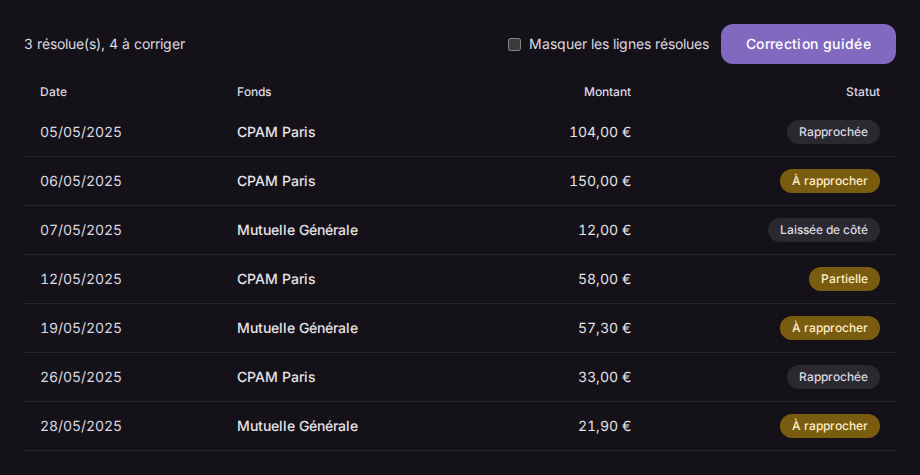
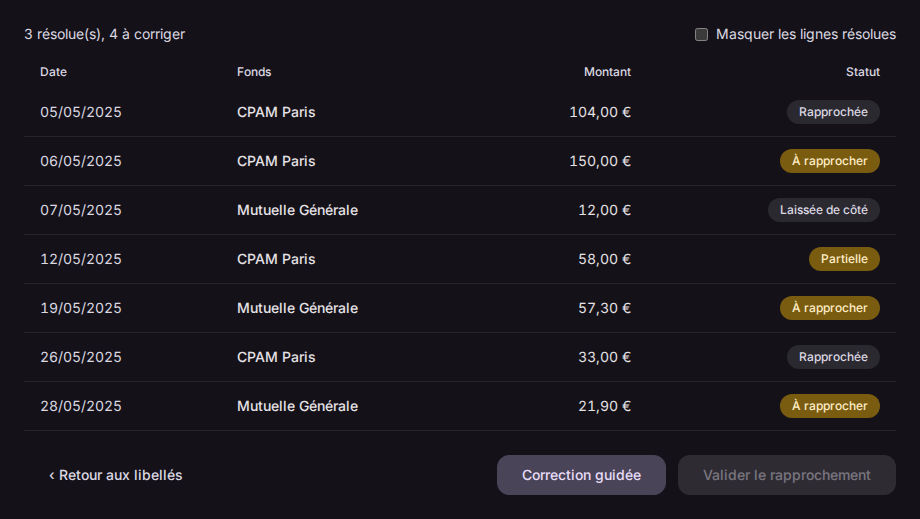
fix(bank): close spec-checker gaps; wizard entry to pinned footer

diff --git a/src/features/bank-statement-match/ui/CandidateList.tsx b/src/features/bank-statement-match/ui/CandidateList.tsx
@@ -1,7 +1,5 @@
-import { useState } from "react";
 import { useTranslation } from "react-i18next";
 import type { BankStatementCandidate, BankStatementLine } from "@/bindings";
-import { Button } from "@/ui/components/button";
 import { useFormatters } from "@/ui/format/formatters";
 import { coveredAmount } from "../shared/candidateSelection";
 
@@ -77,37 +75,20 @@ interface CandidateListProps {
 }
 
 /**
- * BAS-068/090/091 — candidate selector (wire order: most recent payment
- * first) with live balance and broaden
- * toggle, shared by AssignGroupsModal and the wizard's assign-group step
- * (BAS-101). Selection state is controlled by the host; the broaden state is
- * local and hosts reset it by keying the component on the line id.
+ * BAS-068/090/091/116 — the wizard group step's candidate selector (wire
+ * order: most recent payment first) with live balance, over the fund-scoped
+ * set only — the broadened/scope switching is dialog-only (BAS-116; the
+ * former standalone broaden toggle was superseded by the BAS-111 scopes).
+ * Selection state is controlled by the host.
  */
 export function CandidateList({ line, idPrefix, selected, onSelectionChange }: CandidateListProps) {
   const { t } = useTranslation("bank");
   const { formatCurrency } = useFormatters();
-  const [broadened, setBroadened] = useState(false);
-  // BAS-068 — default to the fund-filtered set; broadening swaps in the
-  // fund-agnostic superset. The wire order (most recent payment first) is
-  // rendered as-is.
-  const candidates = broadened ? line.broadened_candidates : line.candidate_groups;
 
   const toggle = (groupId: string) => {
     onSelectionChange(
       selected.includes(groupId) ? selected.filter((id) => id !== groupId) : [...selected, groupId],
     );
-  };
-
-  // Swapping the candidate source must drop selections that are no longer
-  // visible — otherwise a broadened-only selection would be submitted (and
-  // counted nowhere in the balance) after the user narrows back.
-  const toggleBroadened = () => {
-    const next = !broadened;
-    const visible = new Set(
-      (next ? line.broadened_candidates : line.candidate_groups).map((c) => c.group_id),
-    );
-    onSelectionChange(selected.filter((id) => visible.has(id)));
-    setBroadened(next);
   };
 
   return (
@@ -119,23 +100,8 @@ export function CandidateList({ line, idPrefix, selected, onSelectionChange }: C
         })}
       </output>
 
-      <div className="flex justify-end">
-        <Button
-          id={`${idPrefix}-broaden`}
-          variant="secondary"
-          aria-pressed={broadened}
-          onClick={toggleBroadened}
-        >
-          {t(
-            broadened
-              ? "reconciliation.assign_groups.broaden_off"
-              : "reconciliation.assign_groups.broaden_on",
-          )}
-        </Button>
-      </div>
-
       <GroupCandidateRows
-        candidates={candidates}
+        candidates={line.candidate_groups}
         idPrefix={idPrefix}
         selected={selected}
         onToggle={toggle}

diff --git a/src/features/bank-statement-match/ui/ReconciliationList.tsx b/src/features/bank-statement-match/ui/ReconciliationList.tsx
@@ -2,7 +2,6 @@ import { useState } from "react";
 import { useTranslation } from "react-i18next";
 import type { BankStatementLine, BankStatementReconciliation } from "@/bindings";
 import { useCacheStore } from "@/infra/cache/store";
-import { Button } from "@/ui/components/button";
 import { useFormatters } from "@/ui/format/formatters";
 import { lineStatusTone, presentLineBadge } from "../shared/reconciliationPresenter";
 
@@ -10,7 +9,6 @@ interface ReconciliationListProps {
   reconciliation: BankStatementReconciliation;
   onApplyCorrection: (line: BankStatementLine) => void;
   isBusy: boolean;
-  onOpenWizard?: () => void;
 }
 
 /**
@@ -29,7 +27,6 @@ export function ReconciliationList({
   reconciliation,
   onApplyCorrection,
   isBusy,
-  onOpenWizard,
 }: ReconciliationListProps) {
   const { t } = useTranslation("bank");
   const { formatCurrency, formatDate } = useFormatters();
@@ -70,30 +67,18 @@ export function ReconciliationList({
             needsCorrection: needsCorrectionCount,
           })}
         </output>
-        <div className="flex items-center gap-3">
-          <label
-            htmlFor="reconciliation-hide-resolved"
-            className="flex items-center gap-2 text-sm text-m3-on-surface-variant cursor-pointer"
-          >
-            <input
-              id="reconciliation-hide-resolved"
-              type="checkbox"
-              checked={hideResolved}
-              onChange={(e) => setHideResolved(e.target.checked)}
-            />
-            {t("reconciliation.hide_resolved")}
-          </label>
-          {onOpenWizard && (
-            <Button
-              id="reconciliation-wizard-btn"
-              variant="primary"
-              onClick={onOpenWizard}
-              disabled={isBusy}
-            >
-              {t("reconciliation.wizard.open")}
-            </Button>
-          )}
-        </div>
+        <label
+          htmlFor="reconciliation-hide-resolved"
+          className="flex items-center gap-2 text-sm text-m3-on-surface-variant cursor-pointer"
+        >
+          <input
+            id="reconciliation-hide-resolved"
+            type="checkbox"
+            checked={hideResolved}
+            onChange={(e) => setHideResolved(e.target.checked)}
+          />
+          {t("reconciliation.hide_resolved")}
+        </label>
       </div>
 
       {/* BAS-119/122A — the line list is the screen's only scrollable region. */}

diff --git a/src/features/bank-statement-match/ui/useBankStatementReconciliation.test.ts b/src/features/bank-statement-match/ui/useBankStatementReconciliation.test.ts
@@ -635,4 +635,49 @@ describe("useBankStatementReconciliation — correction-list compaction (BAS-113
     expect(result.current.corrections).toEqual([]);
     expect(mockCompute.mock.calls.at(-1)?.[2]).toEqual([]);
   });
+
+  // BAS-123A — the gold action's two corrections revert INDEPENDENTLY (one
+  // correction model, no pair-revert).
+  it("reverts the acknowledgment alone, keeping the assignment (BAS-123A)", async () => {
+    const { result } = renderHook(() =>
+      useBankStatementReconciliation(BANK_ACCOUNT_ID, PARSE_RESULT),
+    );
+    await waitFor(() => expect(result.current.reconciliation).toBeDefined());
+
+    await act(async () => {
+      await result.current.applyCorrection(ASSIGN_GROUPS);
+    });
+    await act(async () => {
+      await result.current.applyCorrection(ACKNOWLEDGE);
+    });
+    expect(result.current.corrections).toEqual([ASSIGN_GROUPS, ACKNOWLEDGE]);
+
+    await act(async () => {
+      await result.current.revertCorrection(1);
+    });
+
+    expect(result.current.corrections).toEqual([ASSIGN_GROUPS]);
+    expect(mockCompute.mock.calls.at(-1)?.[2]).toEqual([ASSIGN_GROUPS]);
+  });
+
+  it("reverts the assignment alone, keeping the acknowledgment (BAS-123A)", async () => {
+    const { result } = renderHook(() =>
+      useBankStatementReconciliation(BANK_ACCOUNT_ID, PARSE_RESULT),
+    );
+    await waitFor(() => expect(result.current.reconciliation).toBeDefined());
+
+    await act(async () => {
+      await result.current.applyCorrection(ASSIGN_GROUPS);
+    });
+    await act(async () => {
+      await result.current.applyCorrection(ACKNOWLEDGE);
+    });
+
+    await act(async () => {
+      await result.current.revertCorrection(0);
+    });
+
+    expect(result.current.corrections).toEqual([ACKNOWLEDGE]);
+    expect(mockCompute.mock.calls.at(-1)?.[2]).toEqual([ACKNOWLEDGE]);
+  });
 });

diff --git a/src/features/bank-statement-match/ui/ReconciliationList.integration.test.tsx b/src/features/bank-statement-match/ui/ReconciliationList.integration.test.tsx
@@ -371,55 +371,6 @@ describe("ReconciliationList — double-click opens correction modal (BAS-062)",
 });
 
 // ---------------------------------------------------------------------------
-// BAS-100 — wizard button present at the top of the list
-// ---------------------------------------------------------------------------
-
-describe("ReconciliationList — wizard button (BAS-100)", () => {
-  beforeEach(() => {
-    vi.clearAllMocks();
-    useCacheStore.setState({ funds: MOCK_FUNDS });
-  });
-
-  it("renders the wizard launch button with stable id (BAS-100, F25)", () => {
-    const reconciliation = makeReconciliation([NEEDS_LINK_LINE], 0, 1);
-
-    render(
-      <ReconciliationList
-        reconciliation={reconciliation}
-        onApplyCorrection={vi.fn()}
-        isBusy={false}
-        onOpenWizard={vi.fn()}
-      />,
-    );
-
-    const wizardBtn = document.getElementById("reconciliation-wizard-btn");
-    expect(wizardBtn).not.toBeNull();
-  });
-
-  it("calls onOpenWizard when the wizard button is clicked (BAS-100)", async () => {
-    const user = userEvent.setup();
-    const onOpenWizard = vi.fn();
-    const reconciliation = makeReconciliation([NEEDS_LINK_LINE], 0, 1);
-
-    render(
-      <ReconciliationList
-        reconciliation={reconciliation}
-        onApplyCorrection={vi.fn()}
-        isBusy={false}
-        onOpenWizard={onOpenWizard}
-      />,
-    );
-
-    const wizardBtn = document.getElementById("reconciliation-wizard-btn");
-    if (!wizardBtn) throw new Error("wizard button missing");
-
-    await user.click(wizardBtn);
-
-    expect(onOpenWizard).toHaveBeenCalledTimes(1);
-  });
-});
-
-// ---------------------------------------------------------------------------
 // BAS-069 — hide-resolved filter
 // ---------------------------------------------------------------------------
 

diff --git a/src/features/bank-statement-match/ui/ReconciliationView.tsx b/src/features/bank-statement-match/ui/ReconciliationView.tsx
@@ -148,7 +148,6 @@ export function ReconciliationView({
         reconciliation={settlementReconciliation}
         onApplyCorrection={openLine}
         isBusy={isBusy}
-        onOpenWizard={() => setIsWizardOpen(true)}
       />
 
       {/* BAS-065 — applied corrections, each revertable. */}
@@ -198,15 +197,25 @@ export function ReconciliationView({
         >
           {t("reconciliation.back_to_labels")}
         </Button>
-        <Button
-          id="reconciliation-validate"
-          onClick={handleValidate}
-          variant="primary"
-          disabled={isBusy || !allLinesDecided}
-          loading={isBusy}
-        >
-          {t("statement.modal.validate")}
-        </Button>
+        <div className="flex items-center gap-3">
+          <Button
+            id="reconciliation-wizard-btn"
+            variant="secondary"
+            disabled={isBusy}
+            onClick={() => setIsWizardOpen(true)}
+          >
+            {t("reconciliation.wizard.open")}
+          </Button>
+          <Button
+            id="reconciliation-validate"
+            onClick={handleValidate}
+            variant="primary"
+            disabled={isBusy || !allLinesDecided}
+            loading={isBusy}
+          >
+            {t("statement.modal.validate")}
+          </Button>
+        </div>
       </div>
 
       {/* Per-line settlement dialog (BAS-062/122B) — label linking lives on screen 1. */}

diff --git a/src/features/bank-statement-match/ui/LabelAssociationScreen.tsx b/src/features/bank-statement-match/ui/LabelAssociationScreen.tsx
@@ -109,13 +109,17 @@ export function LabelAssociationScreen({
                   value={row.fundId ?? ""}
                   disabled={isBusy || selectLocked}
                   aria-label={t("bank:label_association.select_aria", { label: row.label })}
-                  onChange={(e) =>
+                  onChange={(e) => {
+                    // Re-selecting the placeholder is a no-op — an empty
+                    // fund_id is not a correction (BAS-120B defines choosing
+                    // a fund only).
+                    if (e.target.value === "") return;
                     submitOrConfirm(row, {
                       type: "LinkFund",
                       bank_label: row.label,
                       assignment: { type: "Fund", fund_id: e.target.value },
-                    })
-                  }
+                    });
+                  }}
                 >
                   <option value="">{t("bank:label_association.select_placeholder")}</option>
                   {sortFundsByName(funds).map((fund) => (

diff --git a/src-tauri/src/use_cases/bank_statement_reconciliation/orchestrator.rs b/src-tauri/src/use_cases/bank_statement_reconciliation/orchestrator.rs
@@ -2524,6 +2524,43 @@ mod tests {
         );
     }
 
+    // BAS-123C — a left-aside line (Matched with zero settlement items and an
+    // acknowledged remainder) writes NOTHING at validate: no BankEntry and no
+    // born group. The mocks carry no `create_group`/`create_transfer`
+    // expectations, so any write here would panic the test.
+    #[tokio::test]
+    async fn validate_reconciliation_left_aside_line_creates_nothing() {
+        let mapping = BankFundLabelMapping {
+            id: "m1".to_string(),
+            bank_account_id: "acc-1".to_string(),
+            bank_label: "CPAM93".to_string(),
+            fund_id: Some("fund-1".to_string()),
+        };
+        let orchestrator = make_orchestrator_with(vec![], vec![], None, vec![mapping]);
+
+        let parse_result = BankStatementParseResult {
+            iban: None,
+            period: None,
+            credit_lines: vec![BankStatementCreditLine {
+                date: "2026-01-15".to_string(),
+                label: "CPAM93".to_string(),
+                amount: 100_000,
+            }],
+            total_credits: 100_000,
+            unparsed_count: 0,
+        };
+        let corrections = vec![BankStatementCorrection::AcknowledgeRemainder {
+            line_id: "line-0".to_string(),
+        }];
+
+        let count = orchestrator
+            .validate_reconciliation("acc-1", &parse_result, &corrections)
+            .await
+            .unwrap();
+
+        assert_eq!(count, 0, "a left-aside line must create nothing (BAS-123C)");
+    }
+
     // BAS-115 — `create_group` is called `is_silent=true` (no new publish); the
     // born group's single `FundPaymentGroupUpdated` event comes from the
     // EXISTING `update_group_status` publish in the settle step. Exactly one
